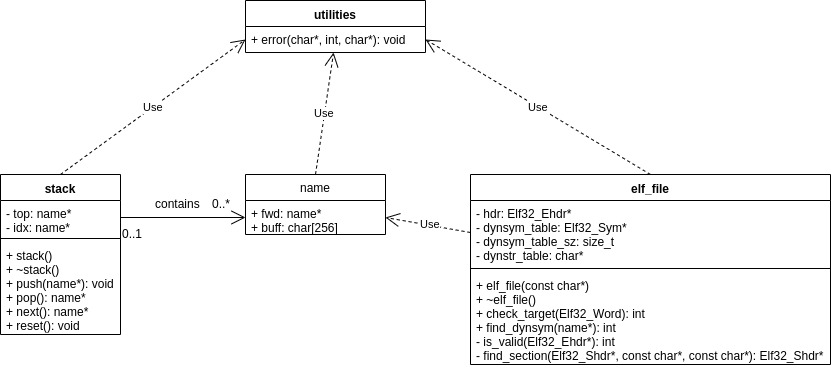
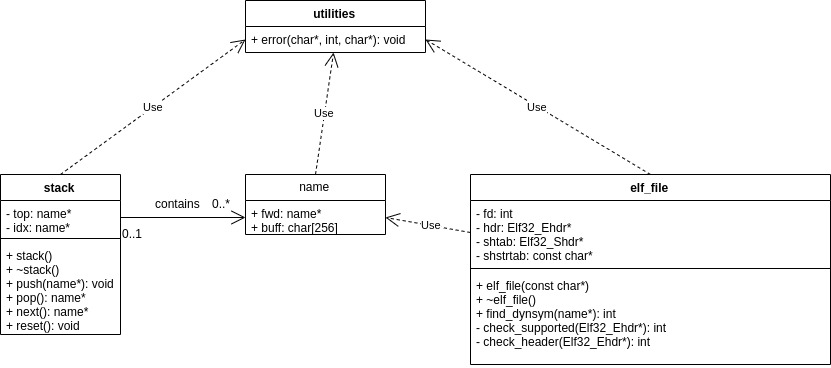
Redesigned the elf class & updated its uml. open_file loads the files elf header and verifies its magic bytes and that its intended target is an arm machine w/ a 32 bit word size and LSB storage. If so it loads the file's section hdeader table and section name str table. Subsequent calls to find_dyn

diff --git a/elf.c b/elf.c
@@ -1,0 +1,139 @@
+#include "elf.h"
+#include "utilities.h"
+#include <elf.h>
+#include <stdlib.h>
+#include <unistd.h>
+
+static int check_hdr(Elf32_Ehdr *hdr)
+{
+    if(hdr->e_ident[EI_MAG0] != ELFMAG0){
+        return 0;
+    }
+    if(hdr->e_ident[EI_MAG1] != ELFMAG1){
+        return 0;
+    }
+    if(hdr->e_ident[EI_MAG2] != ELFMAG2){
+        return 0;
+    }
+    if(hdr->e_ident[EI_MAG3] != ELFMAG3){
+        return 0;
+    }
+    return 1;
+}
+
+static int check_supported(Elf32_Ehdr *hdr)
+{
+    if(!check_hdr(hdr)){
+        return NULL;
+    }
+    if(hdr->e_ident[EI_CLASS] != ELFCLASS32){
+        return NULL;
+    }
+    if(hdr->e_ident[EI_DATA] != ELFDATA2LSB){
+        return NULL;
+    }
+    if(hdr->e_machine != EM_ARM){
+        return NULL;
+    }
+    if(hdr->e_type != ET_EXEC){
+        return NULL;
+    }
+
+}
+
+Elf *open_elf(int elf_fd)
+{
+    Elf *elf;
+    Elf32_Ehdr *ehdr;
+    Elf32_Shdr *section_table;
+    const char *str_table;
+
+    ehdr = malloc(sizeof(struct Elf32_Ehdr));
+    read(elf_fd, ehdr, sizeof(struct Elf32_Ehdr));    
+    if(!check_supported(ehdr)){
+        free(ehdr);
+        return NULL;
+    }
+    //load section header table
+    section_table = malloc(ehdr->shnum * ehdr->shentsize);
+    lseek(elf_fd, ehdr->e_shoff, SEEK_SET);
+    read(elf_fd, section_table, ehdr->shnum * ehdr->shentsize);
+    //load section header string table
+    if(ehdr->e_shstrndx == SHN_UNDEF){
+        free(ehdr);
+        return NULL;
+    }
+    Elf32_Shdr *shdr = &section_table[ehdr->e_shstrndx];
+    str_table = malloc(shdr->sh_size);
+    lseek(elf_fd, shdr->sh_offset, SEEK_SET);
+    read(elf_fd, str_table, shdr->sh_size);
+
+    //allocate and populate ELF struct and return a reference to it.
+    elf = malloc(sizeof(ELF));
+    elf->fd = elf_fd;
+    elf->elf_hdr = ehdr;
+    elf->shtab = section_table;
+    elf->shstrtab = str_table; 
+    return elf;
+}
+
+void close_elf(Elf *elf)
+{
+    close(elf->fd);
+    free(elf->elf_hdr);
+    free(elf->shtab);
+    free(elf->shstrtab);
+    free(elf);
+}
+
+int find_dynsym(Elf *elf, char *sym_name)
+{
+    Elf32_Sym *dynsym_table;
+    Elf32_Sym *victim;
+    Elf32_Shdr *dynsym_table_hdr;
+    Elf32_Shdr *dynstr_table_hdr;
+    const char *dynstr_table;
+    int i;
+    int flag;
+
+    i = 1;
+    flag = 0;
+    dynsym_table_hdr = &elf->shtab[1];
+    while(i < elf->elf_hdr->e_shnum){
+        if(dynsym_table_hdr->sh_name != SHN_UNDEF && !strcmp(elf->shstrtab + dynsym_table_hdr->sh_name,  ".dynsym")){
+            flag = 1;
+            break;
+        }
+        i++;
+        dynsym_table_hdr++;
+    }
+    if(!flag){
+        return NULL;
+    }
+    //load dynamic symbol table
+    dynsym_table = malloc(dynsym_table_hdr->sh_size);
+    lseek(elf->fd, dynsym_table_hdr->sh_offset, SEEK_SET);
+    read(elf->fd, dynsym_table, dynsym_table_hdr->sh_size);
+    //load dynamic symbol string table
+    dynstr_table_hdr = elf->shtab + dynsym_table_hdr->sh_link;
+    dynstr_table = malloc(dynstr_table_hdr->sh_size);
+    lseek(elf->fd, dynstr_table_hdr->sh_offset, SEEK_SET);
+    read(elf->fd, dynstr_table, dynsym_table_hdr->sh_size); 
+
+    //search for the supplied symbol name in the dynamic symbol
+    i = 1;
+    flag = 0;
+    victim = &dynsym_table[1];
+    while(i < dynsym_table_hdr->sh_size / dynsym_table_hdr->sh_entsize){
+        if(victim->st_name != SH_UNDEF && !strcmp(dynstr_table + victim->st_name, sym_name)){
+            flag = 1;
+            break;
+        }
+        i++;
+        victim++;
+    }
+    if(!flag){
+        return NULL;
+    }
+    return 1;
+}

diff --git a/elf.h b/elf.h
@@ -1,0 +1,16 @@
+#ifndef ELF_H
+#define ELF_H
+//#include <stdint.h>
+#include <elf.h>
+
+typedef struct Elf{
+    int fd;
+    struct Elf32_Ehdr *elf_hdr;
+    struct Elf32_Shdr *shtab;
+    const char *shstrtab;
+}Elf;
+
+Elf *open_elf(int fd);
+void close_elf(Elf *efile);
+int find_dynsym(Elf *efile, char *sym_name);
+#endif

diff --git a/utilities.c b/utilities.c
@@ -3,6 +3,5 @@
 
 void error(char *file, int line_num, char *error)
 {
-    printf("file: %s line number: %d error %s\n", file, line_num, error);
-    exit(1);
+    fprintf(stderr, "file: %s line number: %d error %s\n", file, line_num, error);
 }
